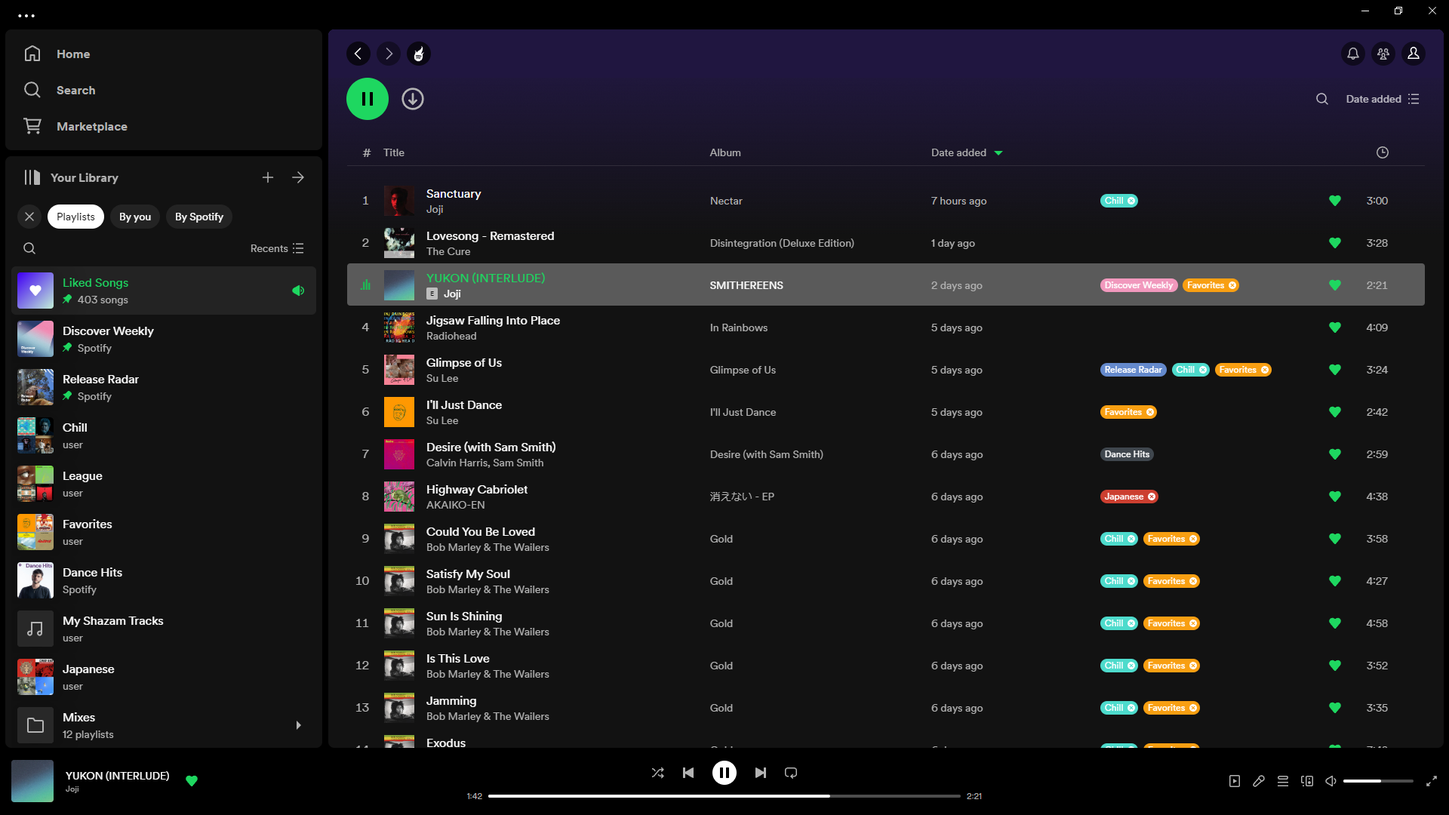
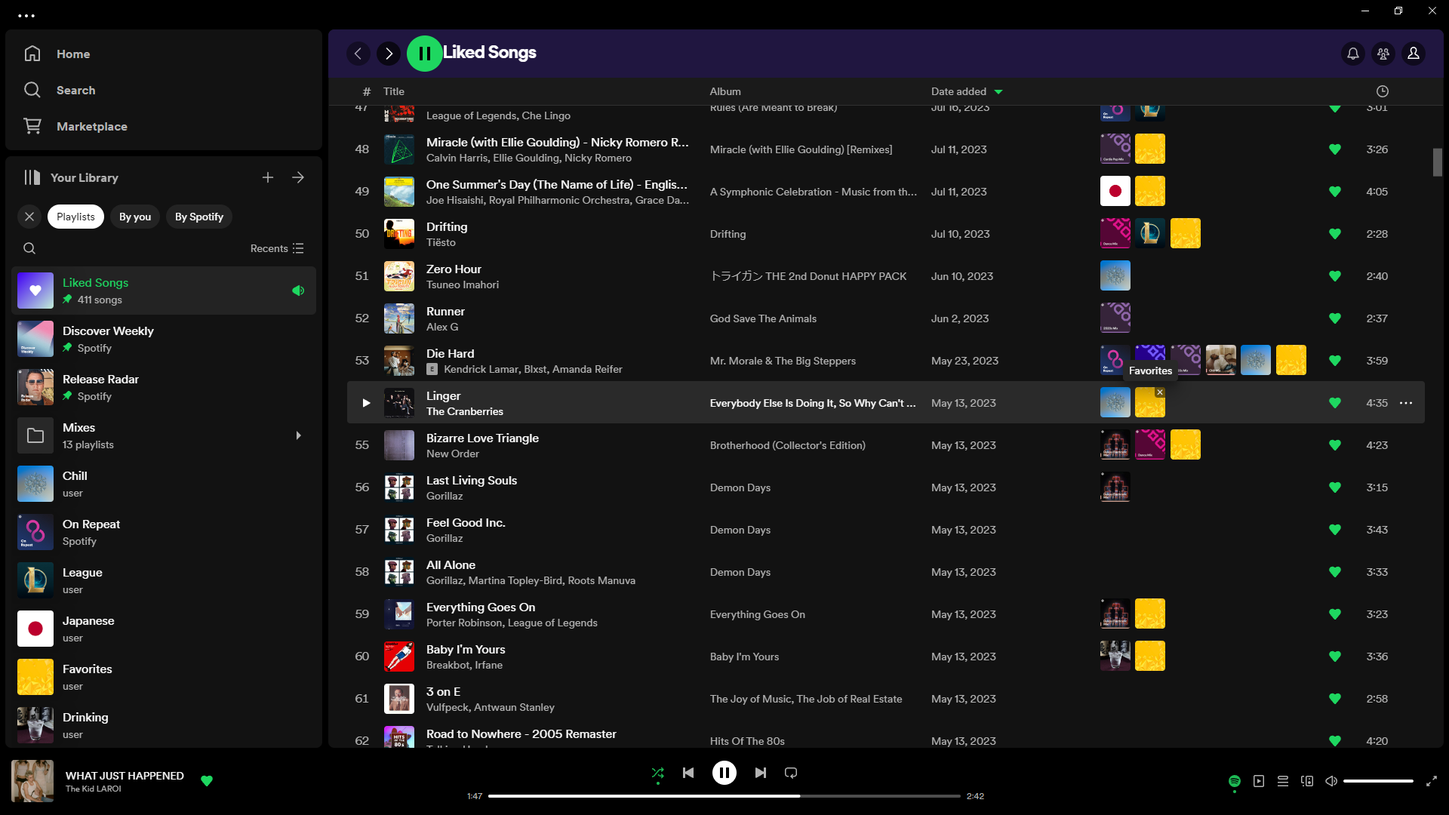
Use playlist images instead of colored labels

diff --git a/dist/spicetify-playlist-labels.js b/dist/spicetify-playlist-labels.js
@@ -1,3 +1,3 @@
-!async function(){for(;!Spicetify.React||!Spicetify.ReactDOM;)await new Promise(e=>setTimeout(e,10));var o,c,s,p,u,d,e,t,i,m,f,r,y,v,a,l,n,g,h,b,w,x,S,C,E;o=Object.create,c=Object.defineProperty,s=Object.getOwnPropertyDescriptor,p=Object.getOwnPropertyNames,u=Object.getPrototypeOf,d=Object.prototype.hasOwnProperty,i=(e=(e,t)=>function(){return t||(0,e[p(e)[0]])((t={exports:{}}).exports,t),t.exports})({"external-global-plugin:react-dom"(e,t){t.exports=Spicetify.ReactDOM}}),m=(t=(e,t,i)=>{i=null!=e?o(u(e)):{};var a=!t&&e&&e.__esModule?i:c(i,"default",{value:e,enumerable:!0}),l=e,n=void 0,r=void 0;if(l&&"object"==typeof l||"function"==typeof l)for(let e of p(l))d.call(a,e)||e===n||c(a,e,{get:()=>l[e],enumerable:!(r=s(l,e))||r.enumerable});return a})(e({"external-global-plugin:react"(e,t){t.exports=Spicetify.React}})()),f=t(i()),r={},g=[],h=[],S=x=n=l=a=v=y=null,C=w=!(b={}),E=async function(){for(;null==Spicetify||!Spicetify.showNotification;)await new Promise(e=>setTimeout(e,100));await Spicetify.Platform.RootlistAPI._events._emitter.addListener("update",()=>{L().then(e=>{b=e,w=!0,k()})});var e=document.querySelector(".main-nowPlayingBar-extraControls"),t=document.createElement("span"),i=m.default.memo(()=>{const[e,t]=(0,m.useState)(!1);var i="Button-sc-1dqy6lx-0 Button-small-small-buttonTertiary-iconOnly-isUsingKeyboard-useBrowserDefaultFocusStyle main-genericButton-button",i=e?"Button-sc-1dqy6lx-0 Button-small-small-buttonTertiary-iconOnly-isUsingKeyboard-useBrowserDefaultFocusStyle main-genericButton-button main-genericButton-buttonActive main-genericButton-buttonActiveDot ZMXGDTbwxKJhbmEDZlYy":i;return m.default.createElement(Spicetify.ReactComponent.TooltipWrapper,{label:"Show All Playlist Labels",placement:"top"},m.default.createElement("button",{className:i,onClick:()=>{t(!e),C=!C,w=!0,k()}},m.default.createElement(Spicetify.ReactComponent.IconComponent,{dangerouslySetInnerHTML:{__html:'<svg xmlns="http://www.w3.org/2000/svg" height="1em" viewBox="0 0 512 512">\x3c!--! Font Awesome Free 6.4.2 by @fontawesome - https://fontawesome.com License - https://fontawesome.com/license (Commercial License) Copyright 2023 Fonticons, Inc. --\x3e<path d="M345 39.1L472.8 168.4c52.4 53 52.4 138.2 0 191.2L360.8 472.9c-9.3 9.4-24.5 9.5-33.9 .2s-9.5-24.5-.2-33.9L438.6 325.9c33.9-34.3 33.9-89.4 0-123.7L310.9 72.9c-9.3-9.4-9.2-24.6 .2-33.9s24.6-9.2 33.9 .2zM0 229.5V80C0 53.5 21.5 32 48 32H197.5c17 0 33.3 6.7 45.3 18.7l168 168c25 25 25 65.5 0 90.5L277.3 442.7c-25 25-65.5 25-90.5 0l-168-168C6.7 262.7 0 246.5 0 229.5zM144 144a32 32 0 1 0 -64 0 32 32 0 1 0 64 0z"/></svg>'},iconSize:16})))}),i=(f.default.render(m.default.createElement(i,null),t),null!=e&&e.prepend(t),b=await L(),n=new MutationObserver(()=>{k()}),new MutationObserver(async()=>{await O()}));await O(),i.observe(document.body,{childList:!0,subtree:!0})},(async()=>{await E()})();function P(e){let i=[];return function t(e){"playlist"===e.type?i.push(e):"folder"===e.type&&e.items&&e.items.forEach(e=>t(e))}(e),i}async function L(){const a=P(await Spicetify.Platform.RootlistAPI.getContents());var e=await Promise.all(a.map(e=>async function(e){return(await Spicetify.Platform.PlaylistAPI.getContents(e)).items}(e.uri)));const l=await Promise.all(a.map(e=>{var e=e.images;return 0===e.length?null:(e=e[0].url,r[e]||async function(e){var t=Spicetify.GraphQL.Definitions["fetchExtractedColors"];return null==(e=null==(t=null==(e=null==(t=(await Spicetify.GraphQL.Request(t,{uris:[e]})).data)?void 0:t.extractedColors)?void 0:e[0])?void 0:t.colorRaw)?void 0:e.hex}(e))})),n=(l.forEach((e,t)=>{e&&(r[a[t].uri]=e)}),{});return e.forEach((e,i)=>{e.forEach(e=>{var t=e.uri;n[t]||(n[t]=[]),n[t].some(e=>e.uri===a[i].uri)||n[t].push({name:a[i].name,uri:a[i].uri,trackUid:e.uid,color:l[i],canEdit:a[i].canAdd&&a[i].canRemove})})}),n}function k(){var t;h=g;let i=(g=Array.from(document.querySelectorAll(".main-trackList-indexable"))).length!==h.length;for(let e=0;e<g.length;e++)g[e].isEqualNode(h[e])||(i=!0);i&&(v=y=null);const a=[null,null,null,null,"[index] 16px [first] 4fr [var1] 1fr [var2] 2fr [last] minmax(120px,1fr)","[index] 16px [first] 6fr [var1] 4fr [var2] 3fr [var3] 4fr [last] minmax(120px,1fr)","[index] 16px [first] 6fr [var1] 4fr [var2] 3fr [var3] minmax(120px,2fr) [var3] 2fr [last] minmax(120px,1fr)"];let l=null;document.querySelectorAll(".main-trackList-trackListHeaderRow").forEach(e=>{var t=e.querySelector(".main-trackList-rowSectionEnd"),t=parseInt(t.getAttribute("aria-colindex"));(y=y||getComputedStyle(e).gridTemplateColumns)&&a[t]&&(e.style["grid-template-columns"]=a[t],l=a[t])});for(const e of g){for(const o of e.getElementsByClassName("main-trackList-trackListRow")){r=o,n=void 0;const c=(r=Object.values(r))?(null==(n=null==(r=null==(r=null==(r=null==(r=null==(r=r[0])?void 0:r.pendingProps)?void 0:r.children[0])?void 0:r.props)?void 0:r.children)?void 0:r.props)?void 0:n.uri)||(null==(n=null==(n=null==(n=null==r?void 0:r.props)?void 0:n.children)?void 0:n.props)?void 0:n.uri)||(null==(n=null==(n=null==(n=null==(n=null==(n=null==r?void 0:r.props)?void 0:n.children)?void 0:n.props)?void 0:n.children)?void 0:n.props)?void 0:n.uri)||(null==(r=null==(n=r[0])?void 0:n.props)?void 0:r.uri):null;x===c&&Spicetify.Platform.History.location.pathname===S&&(o.click(),x=null);let e=o.querySelector(".spicetify-playlist-labels");if(w&&e&&(e.remove(),e=null),!e){var n=o.querySelector(".main-trackList-rowSectionEnd"),r=parseInt(n.getAttribute("aria-colindex"));n.setAttribute("aria-colindex",(r+1).toString()),e=document.createElement("div");const s=Spicetify.React.memo(()=>m.default.createElement(Spicetify.ReactComponent.IconComponent,{semanticColor:"textBase",dangerouslySetInnerHTML:{__html:'<svg xmlns="http://www.w3.org/2000/svg"><path d="M12 0c-6.627 0-12 5.373-12 12s5.373 12 12 12 12-5.373 12-12-5.373-12-12-12zm4.151 17.943l-4.143-4.102-4.117 4.159-1.833-1.833 4.104-4.157-4.162-4.119 1.833-1.833 4.155 4.102 4.106-4.16 1.849 1.849-4.1 4.141 4.157 4.104-1.849 1.849z" /></svg>'},width:"10px",height:"10px",viewBox:"0 0 24 24"}));f.default.render(m.default.createElement("div",{className:"spicetify-playlist-labels-container"},null==(t=b[c])?void 0:t.map(t=>{var e;return!C&&!t.canEdit||(e=t.uri.match(/spotify:playlist:(.*)/)[1],Spicetify.Platform.History.location.pathname==="/playlist/"+e)?null:m.default.createElement(Spicetify.ReactComponent.Chip,{className:"encore-dark-theme spicetify-playlist-labels-label",style:(e=t,""===Spicetify.Config.color_scheme&&e.color?{margin:0,backgroundColor:e.color}:{margin:0,backgroundColor:"var(--background-tinted-base)"}),isUsingKeyboard:!1,onClick:e=>{e.stopPropagation();e=null==(e=Spicetify.URI.fromString(t.uri))?void 0:e.toURLPath(!0);x=c,(S=e)&&Spicetify.Platform.History.push({pathname:e,search:"?uid="+t.trackUid})},size:!0,iconTrailing:t.canEdit?()=>m.default.createElement("button",{className:"spicetify-playlist-labels-remove-button",onClick:e=>{e.stopPropagation(),async function(e,t){await Spicetify.Platform.PlaylistAPI.remove(e,[{uri:t,uid:""}])}(t.uri,c),b[c]=b[c].filter(e=>e.name!==t.name),w=!0,k()}},m.default.createElement(s,{trackUri:c,playlistData:t})):()=>m.default.createElement("snan",{style:{width:"4px"}})},m.default.createElement("div",{style:{padding:"0 2px 0 6px",maxWidth:"60px",textOverflow:"ellipsis",overflow:"hidden",whiteSpace:"nowrap"}},t.name))})),e),e.setAttribute("aria-colindex",r.toString()),e.role="gridcell",e.style.display="flex",e.classList.add("main-trackList-rowSectionVariable"),e.classList.add("spicetify-playlist-labels"),o.insertBefore(e,n),v=v||getComputedStyle(o).gridTemplateColumns,a[r]&&(o.style["grid-template-columns"]=l||a[r])}}w=!1}}async function O(){a=l,(l=document.querySelector("main"))&&!l.isEqualNode(a)&&(a&&n.disconnect(),k(),n.observe(l,{childList:!0,subtree:!0}))}(async()=>{var e;document.getElementById("spicetifyDplaylistDlabels")||((e=document.createElement("style")).id="spicetifyDplaylistDlabels",e.textContent=String.raw`
-  .spicetify-playlist-labels-label{font-size:12px!important;padding:0!important;white-space:nowrap;color:var(--spice-text)!important;height:18px}.spicetify-playlist-labels-container{height:var(--row-height);align-items:center;display:flex;flex-wrap:wrap;overflow:hidden;gap:calc((var(--row-height) - 36px)/ 3);padding-top:calc((var(--row-height) - 36px)/ 3);padding-bottom:calc((var(--row-height) - 36px)/ 3)}.spicetify-playlist-labels-remove-button{display:inline-flex;background:0 0;height:18px;width:18px;padding:4px;border-radius:calc(infinity * 1px);border:0}.spicetify-playlist-labels-remove-button:hover{background:rgb(0,0,0,.2)}.ChipComponent-checkbox-chip-size{margin-bottom:0!important}.ChipInnerComponent-iconTrailing-size-isUsingKeyboard{grid-gap:0px!important}
+!async function(){for(;!Spicetify.React||!Spicetify.ReactDOM;)await new Promise(e=>setTimeout(e,10));var r,s,c,p,u,m,e,t,i,d,f,y,b,l,a,n,v,g,h,x,w,S,E,o;r=Object.create,s=Object.defineProperty,c=Object.getOwnPropertyDescriptor,p=Object.getOwnPropertyNames,u=Object.getPrototypeOf,m=Object.prototype.hasOwnProperty,i=(e=(e,t)=>function(){return t||(0,e[p(e)[0]])((t={exports:{}}).exports,t),t.exports})({"external-global-plugin:react-dom"(e,t){t.exports=Spicetify.ReactDOM}}),d=(t=(e,t,i)=>{i=null!=e?r(u(e)):{};var l=!t&&e&&e.__esModule?i:s(i,"default",{value:e,enumerable:!0}),a=e,n=void 0,o=void 0;if(a&&"object"==typeof a||"function"==typeof a)for(let e of p(a))m.call(l,e)||e===n||s(l,e,{get:()=>a[e],enumerable:!(o=c(a,e))||o.enumerable});return l})(e({"external-global-plugin:react"(e,t){t.exports=Spicetify.React}})()),f=t(i()),v=[],g=[],S=w=n=a=l=b=y=null,E=x=!(h={}),o=async function(){for(;null==Spicetify||!Spicetify.showNotification;)await new Promise(e=>setTimeout(e,100));await Spicetify.Platform.RootlistAPI._events._emitter.addListener("update",()=>{L().then(e=>{h=e,x=!0,C()})});var e=document.querySelector(".main-nowPlayingBar-extraControls"),t=document.createElement("span"),i=d.default.memo(()=>{const[e,t]=(0,d.useState)(!1);var i="Button-sc-1dqy6lx-0 Button-small-small-buttonTertiary-iconOnly-isUsingKeyboard-useBrowserDefaultFocusStyle main-genericButton-button",i=e?"Button-sc-1dqy6lx-0 Button-small-small-buttonTertiary-iconOnly-isUsingKeyboard-useBrowserDefaultFocusStyle main-genericButton-button main-genericButton-buttonActive main-genericButton-buttonActiveDot ZMXGDTbwxKJhbmEDZlYy":i;return d.default.createElement(Spicetify.ReactComponent.TooltipWrapper,{label:e?"Show Editable Playlist Labels":"Show All Playlist Labels",placement:"top"},d.default.createElement("button",{className:i,onClick:()=>{t(!e),E=!E,x=!0,C()}},d.default.createElement(Spicetify.ReactComponent.IconComponent,{dangerouslySetInnerHTML:{__html:Spicetify.SVGIcons.spotify},iconSize:16})))}),i=(f.default.render(d.default.createElement(i,null),t),null!=e&&e.prepend(t),h=await L(),n=new MutationObserver(()=>{C()}),new MutationObserver(async()=>{await R()}));await R(),i.observe(document.body,{childList:!0,subtree:!0})},(async()=>{await o()})();function P(e){let i=[];return function t(e){"playlist"===e.type?i.push(e):"folder"===e.type&&e.items&&e.items.forEach(e=>t(e))}(e),i}async function L(){const l=P(await Spicetify.Platform.RootlistAPI.getContents());var e=await Promise.all(l.map(e=>async function(e){return(await Spicetify.Platform.PlaylistAPI.getContents(e)).items}(e.uri)));const a={};return e.forEach((e,i)=>{e.forEach(e=>{var t=e.uri;a[t]||(a[t]=[]),a[t].some(e=>e.uri===l[i].uri)||a[t].push({name:l[i].name,uri:l[i].uri,trackUid:e.uid,canEdit:l[i].canAdd&&l[i].canRemove,image:l[i].images[0].url})})}),a}function C(){var t;g=v;let i=(v=Array.from(document.querySelectorAll(".main-trackList-indexable"))).length!==g.length;for(let e=0;e<v.length;e++)v[e].isEqualNode(g[e])||(i=!0);i&&(b=y=null);const l=[null,null,null,null,"[index] 16px [first] 4fr [var1] 1fr [var2] 2fr [last] minmax(120px,1fr)","[index] 16px [first] 6fr [var1] 4fr [var2] 3fr [var3] 4fr [last] minmax(120px,1fr)","[index] 16px [first] 6fr [var1] 4fr [var2] 3fr [var3] minmax(120px,2fr) [var3] 2fr [last] minmax(120px,1fr)"];let a=null;document.querySelectorAll(".main-trackList-trackListHeaderRow").forEach(e=>{var t=e.querySelector(".main-trackList-rowSectionEnd"),t=parseInt(t.getAttribute("aria-colindex"));(y=y||getComputedStyle(e).gridTemplateColumns)&&l[t]&&(e.style["grid-template-columns"]=l[t],a=l[t])});for(const e of v){for(const r of e.getElementsByClassName("main-trackList-trackListRow")){o=r,n=void 0;const s=(o=Object.values(o))?(null==(n=null==(o=null==(o=null==(o=null==(o=null==(o=o[0])?void 0:o.pendingProps)?void 0:o.children[0])?void 0:o.props)?void 0:o.children)?void 0:o.props)?void 0:n.uri)||(null==(n=null==(n=null==(n=null==o?void 0:o.props)?void 0:n.children)?void 0:n.props)?void 0:n.uri)||(null==(n=null==(n=null==(n=null==(n=null==(n=null==o?void 0:o.props)?void 0:n.children)?void 0:n.props)?void 0:n.children)?void 0:n.props)?void 0:n.uri)||(null==(o=null==(n=o[0])?void 0:n.props)?void 0:o.uri):null;w===s&&Spicetify.Platform.History.location.pathname===S&&(r.click(),w=null);let e=r.querySelector(".spicetify-playlist-labels");if(x&&e&&(e.remove(),e=null),!e){var n=r.querySelector(".main-trackList-rowSectionEnd"),o=parseInt(n.getAttribute("aria-colindex"));n.setAttribute("aria-colindex",(o+1).toString()),e=document.createElement("div");const c=Spicetify.React.memo(()=>d.default.createElement(Spicetify.ReactComponent.IconComponent,{semanticColor:"textBase",dangerouslySetInnerHTML:{__html:'<svg xmlns="http://www.w3.org/2000/svg" height="1em" viewBox="0 0 384 512">\x3c!--! Font Awesome Free 6.4.2 by @fontawesome - https://fontawesome.com License - https://fontawesome.com/license (Commercial License) Copyright 2023 Fonticons, Inc. --\x3e<path d="M342.6 150.6c12.5-12.5 12.5-32.8 0-45.3s-32.8-12.5-45.3 0L192 210.7 86.6 105.4c-12.5-12.5-32.8-12.5-45.3 0s-12.5 32.8 0 45.3L146.7 256 41.4 361.4c-12.5 12.5-12.5 32.8 0 45.3s32.8 12.5 45.3 0L192 301.3 297.4 406.6c12.5 12.5 32.8 12.5 45.3 0s12.5-32.8 0-45.3L237.3 256 342.6 150.6z"/></svg>'},width:"14px",height:"14px",viewBox:"0 0 14 14"}));f.default.render(d.default.createElement("div",{className:"spicetify-playlist-labels-labels-container"},null==(t=h[s])?void 0:t.map(t=>{var e;return!E&&!t.canEdit||(e=t.uri.match(/spotify:playlist:(.*)/)[1],Spicetify.Platform.History.location.pathname==="/playlist/"+e)?null:d.default.createElement(Spicetify.ReactComponent.TooltipWrapper,{label:t.name,placement:"top"},d.default.createElement("div",{className:"spicetify-playlist-labels-label-container"},d.default.createElement("input",{type:"image",width:"40px",style:{borderRadius:"4px"},src:t.image,onClick:e=>{e.stopPropagation();e=null==(e=Spicetify.URI.fromString(t.uri))?void 0:e.toURLPath(!0);w=s,(S=e)&&Spicetify.Platform.History.push({pathname:e,search:"?uid="+t.trackUid})}}),t.canEdit?d.default.createElement(Spicetify.ReactComponent.TooltipWrapper,{label:"Remove from "+t.name,placement:"top"},d.default.createElement("button",{onClick:e=>{e.stopPropagation(),async function(e,t){await Spicetify.Platform.PlaylistAPI.remove(e,[{uri:t,uid:""}])}(t.uri,s),h[s]=h[s].filter(e=>e.name!==t.name),x=!0,C()}},d.default.createElement(c,null))):null))})),e),e.setAttribute("aria-colindex",o.toString()),e.role="gridcell",e.style.display="flex",e.classList.add("main-trackList-rowSectionVariable"),e.classList.add("spicetify-playlist-labels"),r.insertBefore(e,n),b=b||getComputedStyle(r).gridTemplateColumns,l[o]&&(r.style["grid-template-columns"]=a||l[o])}}x=!1}}async function R(){l=a,(a=document.querySelector("main"))&&!a.isEqualNode(l)&&(l&&n.disconnect(),C(),n.observe(a,{childList:!0,subtree:!0}))}(async()=>{var e;document.getElementById("spicetifyDplaylistDlabels")||((e=document.createElement("style")).id="spicetifyDplaylistDlabels",e.textContent=String.raw`
+  .spicetify-playlist-labels-labels-container{height:var(--row-height);align-items:center;display:flex;flex-wrap:wrap;overflow:hidden;gap:7px}.spicetify-playlist-labels-label-container{position:relative;height:40px}.spicetify-playlist-labels-label-container button{visibility:hidden;position:absolute;top:0;right:0;width:14px;height:14px;background:rgba(0,0,0,.5);cursor:pointer;border:0;border-top-right-radius:4px;border-bottom-left-radius:4px;vertical-align:top}.spicetify-playlist-labels-label-container:hover button{visibility:visible}.spicetify-playlist-labels-label-container button:hover{background-color:var(--text-negative)}.spicetify-playlist-labels-label-container button svg{padding:1px;vertical-align:top}
       `.trim(),document.head.appendChild(e))})()}();

diff --git a/src/app.tsx b/src/app.tsx
@@ -90,31 +90,18 @@ function updateTracklist() {
                 lastColumn.setAttribute("aria-colindex", (colIndexInt + 1).toString());
                 labelColumn = document.createElement("div");
 
-                const iconData = '<svg xmlns="http://www.w3.org/2000/svg"><path d="M12 0c-6.627 0-12 5.373-12 12s5.373 12 12 12 12-5.373 12-12-5.373-12-12-12zm4.151 17.943l-4.143-4.102-4.117 4.159-1.833-1.833 4.104-4.157-4.162-4.119 1.833-1.833 4.155 4.102 4.106-4.16 1.849 1.849-4.1 4.141 4.157 4.104-1.849 1.849z" /></svg>'
+                const iconData = '<svg xmlns="http://www.w3.org/2000/svg" height="1em" viewBox="0 0 384 512"><!--! Font Awesome Free 6.4.2 by @fontawesome - https://fontawesome.com License - https://fontawesome.com/license (Commercial License) Copyright 2023 Fonticons, Inc. --><path d="M342.6 150.6c12.5-12.5 12.5-32.8 0-45.3s-32.8-12.5-45.3 0L192 210.7 86.6 105.4c-12.5-12.5-32.8-12.5-45.3 0s-12.5 32.8 0 45.3L146.7 256 41.4 361.4c-12.5 12.5-12.5 32.8 0 45.3s32.8 12.5 45.3 0L192 301.3 297.4 406.6c12.5 12.5 32.8 12.5 45.3 0s12.5-32.8 0-45.3L237.3 256 342.6 150.6z"/></svg>';
                 const RemoveIcon = Spicetify.React.memo(() =>
                     <Spicetify.ReactComponent.IconComponent semanticColor='textBase'
                         dangerouslySetInnerHTML={{ __html: iconData }}
-                        width="10px"
-                        height="10px"
-                        viewBox='0 0 24 24'
+                        width="14px"
+                        height="14px"
+                        viewBox='0 0 14 14'
                     />
                 );
 
-                const chipStyle = (playlistData) => {
-                    if (Spicetify.Config.color_scheme !== '' || !playlistData.color) {
-                        return {
-                            margin: 0,
-                            backgroundColor: 'var(--background-tinted-base)'
-                        };
-                    }
-                    return {
-                        margin: 0,
-                        backgroundColor: playlistData.color
-                    };
-                };
-
                 ReactDOM.render(
-                    <div className="spicetify-playlist-labels-container">
+                    <div className="spicetify-playlist-labels-labels-container">
                         {
                             trackUriToPlaylistData[trackUri]?.map((playlistData) => {
                                 if (!showAllPlaylists && !playlistData.canEdit) return null;
@@ -123,39 +110,39 @@ function updateTracklist() {
                                 if (Spicetify.Platform.History.location.pathname === `/playlist/${playlistId}`) return null;
 
                                 return (
-                                    <Spicetify.ReactComponent.Chip className="encore-dark-theme spicetify-playlist-labels-label" style={chipStyle(playlistData)}
-                                        isUsingKeyboard={false} onClick={(e: Event) => {
-                                            e.stopPropagation()
-                                            const path = Spicetify.URI.fromString(playlistData.uri)?.toURLPath(true);
-                                            highlightTrack = trackUri;
-                                            highlightTrackPath = path;
-                                            if (path) Spicetify.Platform.History.push({
-                                                pathname: path,
-                                                search: `?uid=${playlistData.trackUid}`
-                                            });
-                                        }} size={true} iconTrailing={playlistData.canEdit ? () => (
-                                            <button className="spicetify-playlist-labels-remove-button"
-                                                onClick={(e: Event) => {
-                                                    e.stopPropagation();
-                                                    removeTrackFromPlaylist(playlistData.uri, trackUri)
-                                                    trackUriToPlaylistData[trackUri] = trackUriToPlaylistData[trackUri].filter((otherPlaylistData) => otherPlaylistData.name !== playlistData.name);
-                                                    playlistUpdated = true;
-                                                    updateTracklist();
-                                                }}>
-                                                <RemoveIcon trackUri={trackUri}
-                                                    playlistData={playlistData}
-                                                />
-                                            </button>
-                                        ) : () => (<snan style={{ width: '4px' }}></snan>)}>
-                                        <div style={{
-                                            padding: '0 2px 0 6px',
-                                            maxWidth: '60px',
-                                            textOverflow: 'ellipsis',
-                                            overflow: 'hidden',
-                                            whiteSpace: 'nowrap',
-                                            }}>{playlistData.name}</div>
-                                    </Spicetify.ReactComponent.Chip>
-
+                                    <Spicetify.ReactComponent.TooltipWrapper
+                                        label={playlistData.name}
+                                        placement="top"
+                                    >
+                                        <div className="spicetify-playlist-labels-label-container">
+                                            <input type="image" width="40px" style={{ borderRadius: '4px'}} src={playlistData.image} onClick={(e: Event) => {
+                                                    e.stopPropagation()
+                                                    const path = Spicetify.URI.fromString(playlistData.uri)?.toURLPath(true);
+                                                    highlightTrack = trackUri;
+                                                    highlightTrackPath = path;
+                                                    if (path) Spicetify.Platform.History.push({
+                                                        pathname: path,
+                                                        search: `?uid=${playlistData.trackUid}`
+                                                    });
+                                            }}/>
+                                            { playlistData.canEdit ?
+                                                <Spicetify.ReactComponent.TooltipWrapper
+                                                    label={`Remove from ${playlistData.name}`}
+                                                    placement="top"
+                                                >
+                                                    <button onClick={(e: Event) => {
+                                                        e.stopPropagation();
+                                                        removeTrackFromPlaylist(playlistData.uri, trackUri)
+                                                        trackUriToPlaylistData[trackUri] = trackUriToPlaylistData[trackUri].filter((otherPlaylistData) => otherPlaylistData.name !== playlistData.name);
+                                                        playlistUpdated = true;
+                                                        updateTracklist();
+                                                    }}>
+                                                        <RemoveIcon/>
+                                                    </button>
+                                                </Spicetify.ReactComponent.TooltipWrapper>
+                                            : null}
+                                        </div>
+                                    </Spicetify.ReactComponent.TooltipWrapper>
                                 );
                             })
                         }
@@ -209,7 +196,6 @@ async function main() {
 
     const extraControls = document.querySelector(".main-nowPlayingBar-extraControls");
     const showAllPlaylistsButtonContainer = document.createElement("span");
-    const showAllPlaylistsIconSvg = '<svg xmlns="http://www.w3.org/2000/svg" height="1em" viewBox="0 0 512 512"><!--! Font Awesome Free 6.4.2 by @fontawesome - https://fontawesome.com License - https://fontawesome.com/license (Commercial License) Copyright 2023 Fonticons, Inc. --><path d="M345 39.1L472.8 168.4c52.4 53 52.4 138.2 0 191.2L360.8 472.9c-9.3 9.4-24.5 9.5-33.9 .2s-9.5-24.5-.2-33.9L438.6 325.9c33.9-34.3 33.9-89.4 0-123.7L310.9 72.9c-9.3-9.4-9.2-24.6 .2-33.9s24.6-9.2 33.9 .2zM0 229.5V80C0 53.5 21.5 32 48 32H197.5c17 0 33.3 6.7 45.3 18.7l168 168c25 25 25 65.5 0 90.5L277.3 442.7c-25 25-65.5 25-90.5 0l-168-168C6.7 262.7 0 246.5 0 229.5zM144 144a32 32 0 1 0 -64 0 32 32 0 1 0 64 0z"/></svg>';
     const ShowAllPlaylistsButton = React.memo(() => {
         const [isClicked, setIsClicked] = useState(false);
         const initialClasses = 'Button-sc-1dqy6lx-0 Button-small-small-buttonTertiary-iconOnly-isUsingKeyboard-useBrowserDefaultFocusStyle main-genericButton-button';
@@ -225,12 +211,12 @@ async function main() {
 
         return (
             <Spicetify.ReactComponent.TooltipWrapper
-                label="Show All Playlist Labels"
+                label={ isClicked ? "Show Editable Playlist Labels" : "Show All Playlist Labels" }
                 placement="top"
             >
                 <button className={classes} onClick={handleClick}>
                     <Spicetify.ReactComponent.IconComponent
-                        dangerouslySetInnerHTML={{ __html: showAllPlaylistsIconSvg }}
+                        dangerouslySetInnerHTML={{ __html: Spicetify.SVGIcons["spotify"] }}
                         iconSize={16}
                     />
                 </button>

diff --git a/src/app.css b/src/app.css
@@ -1,40 +1,41 @@
-.spicetify-playlist-labels-label {
-    font-size: 12px !important;
-    padding: 0 !important;
-    white-space: nowrap;
-    color: var(--spice-text) !important;
-    height: 18px;
-}
-
-.spicetify-playlist-labels-container {
+.spicetify-playlist-labels-labels-container {
     height: var(--row-height);
     align-items: center;
     display: flex;
     flex-wrap: wrap;
     overflow: hidden;
-    gap: calc((var(--row-height) - 36px) / 3.0);
-    padding-top: calc((var(--row-height) - 36px) / 3.0);
-    padding-bottom: calc((var(--row-height) - 36px) / 3.0);
+    gap: 7px;
 }
 
-.spicetify-playlist-labels-remove-button {
-    display: inline-flex;
-    background: transparent;
-    height: 18px;
-    width: 18px;
-    padding: 4px;
-    border-radius: calc(infinity * 1px);
+.spicetify-playlist-labels-label-container {
+    position: relative;
+    height: 40px;
+}
+
+.spicetify-playlist-labels-label-container button {
+    visibility: hidden;
+    position: absolute;
+    top: 0;
+    right: 0;
+    width: 14px;
+    height: 14px;
+    background: rgba(0, 0, 0, 0.5);
+    cursor: pointer;
     border: 0;
+    border-top-right-radius: 4px;
+    border-bottom-left-radius: 4px;
+    vertical-align: top;
 }
 
-.spicetify-playlist-labels-remove-button:hover {
-    background: rgb(0, 0, 0, 0.2);
+.spicetify-playlist-labels-label-container:hover button {
+    visibility: visible;
 }
 
-.ChipComponent-checkbox-chip-size {
-    margin-bottom: 0 !important;
+.spicetify-playlist-labels-label-container button:hover {
+    background-color: var(--text-negative);
 }
 
-.ChipInnerComponent-iconTrailing-size-isUsingKeyboard {
-    grid-gap: 0px !important;
+.spicetify-playlist-labels-label-container button svg {
+    padding: 1px;
+    vertical-align: top;
 }

diff --git a/src/playlist.tsx b/src/playlist.tsx
@@ -1,7 +1,5 @@
 import {getContents, getPlaylistItems, getPlaylistColor} from "./api";
 
-const cachedPlaylistColors = {};
-
 function getAllPlaylists(contents) {
     let playlists = [];
 
@@ -22,19 +20,6 @@ export async function getTrackUriToPlaylistData() {
     const contents = await getContents();
     const playlists = getAllPlaylists(contents);
     const playlistItems = await Promise.all(playlists.map((playlist) => getPlaylistItems(playlist.uri)));
-    const playlistColors = await Promise.all(playlists.map((playlist) => {
-        const images = playlist.images;
-        if (images.length === 0) return null;
-        const imageUri = images[0].url;
-        if (cachedPlaylistColors[imageUri]) {
-            return cachedPlaylistColors[imageUri];
-        }
-        return getPlaylistColor(imageUri);
-    }));
-    playlistColors.forEach((color, index) => {
-        if (color)
-            cachedPlaylistColors[playlists[index].uri] = color;
-    });
     const trackUriToPlaylistData = {};
     playlistItems.forEach((playlistItems, index) => {
         playlistItems.forEach((playlistItem) => {
@@ -47,8 +32,8 @@ export async function getTrackUriToPlaylistData() {
                     name: playlists[index].name,
                     uri: playlists[index].uri,
                     trackUid: playlistItem.uid,
-                    color: playlistColors[index],
-                    canEdit: playlists[index].canAdd && playlists[index].canRemove
+                    canEdit: playlists[index].canAdd && playlists[index].canRemove,
+                    image: playlists[index].images[0].url
                 });
             }
         });
